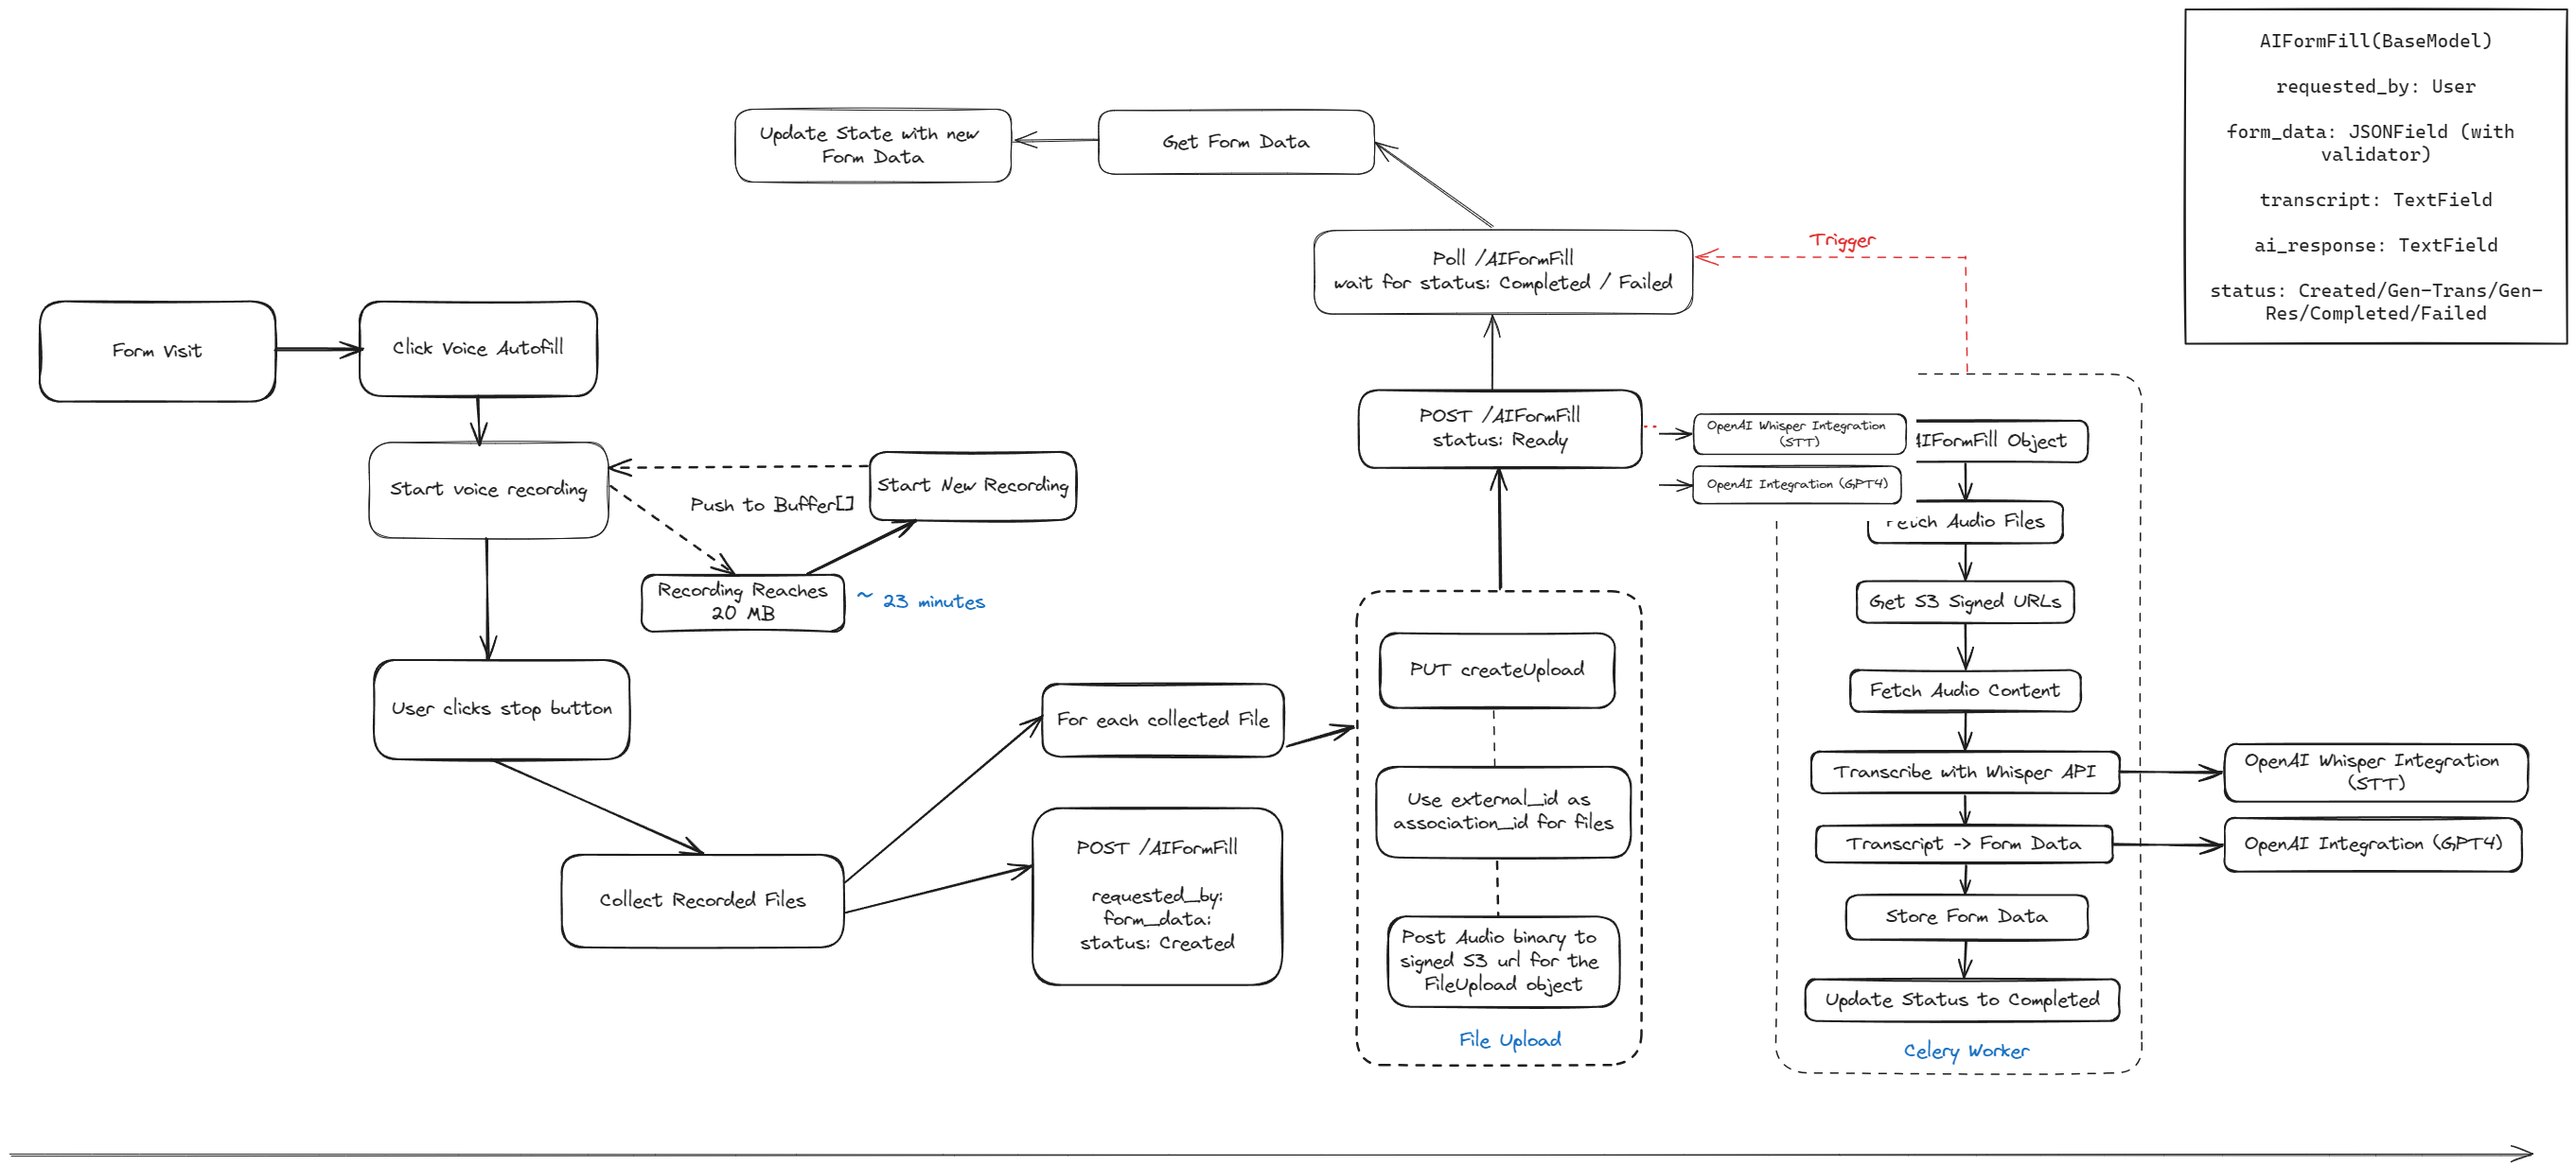
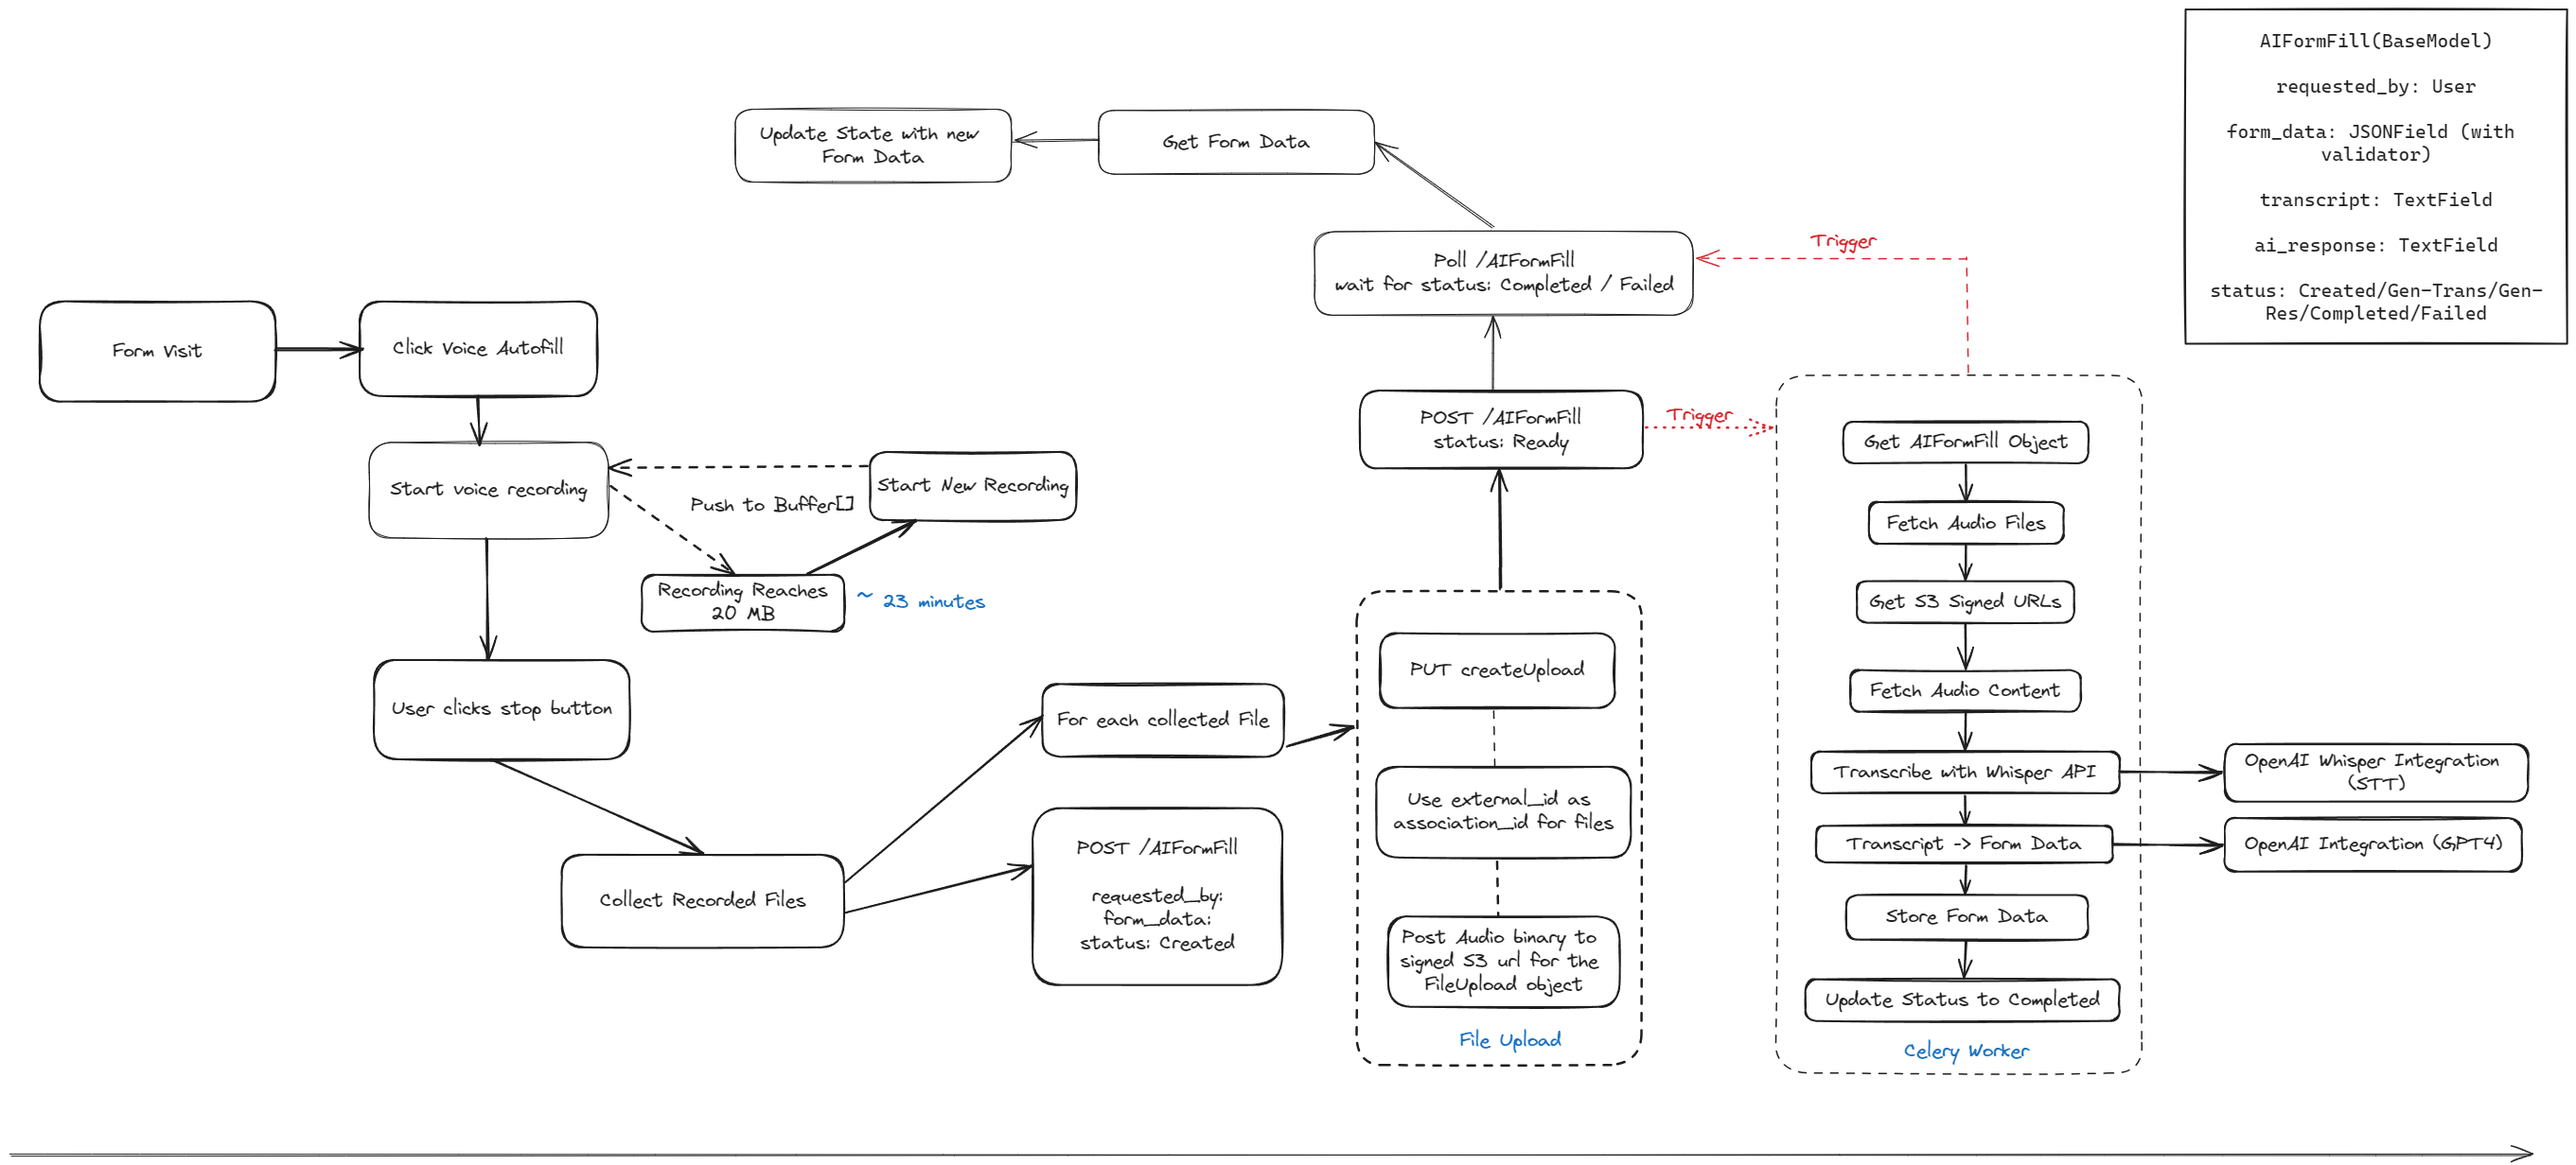
Scribe: Documentation, Azure support, Flowchart, Background Jobs, and Accessibility and Dependencies (#25)

Changed region(s): [[0.5621, 0.3393, 0.8119, 0.4935], [0.5309, 0.2159, 0.687, 0.2776]]

diff --git a/docs/care/apps/scribe/index.md b/docs/care/apps/scribe/index.md
@@ -6,9 +6,17 @@
 |-------------------|----------------------------------------------------------|
 | **Title**         | Care Scribe Feature Overview, Integration, and Operation |
 | **App Namespace** | `care_scribe`                                            |
-| **Last-Modified** | 2024-04-15                                               |
-| **Github-Repo**   | github.com/coronasafe/care_scribe                        |
+| **Last-Modified** | 2024-05-07                                               |
+| **Github-Repo**   | https://github.com/coronasafe/care_scribe                        |
 | **Created**       | 2024-04-15                                               |
+
+## Introduction
+
+The Care Scribe feature represents a substantial advancement in enhancing the accessibility and efficiency of form-filling applications. This introduction section will delve into the core functionalities of Care Scribe, highlighting the significant benefits it offers to users, particularly in terms of streamlining administrative processes and improving user experience. We will also explore the technology behind Care Scribe, how it integrates with existing systems, and its user interface features. Additionally, the scope of this documentation will be outlined, detailing what readers can expect to learn about the feature, including step-by-step guides, best use cases, and troubleshooting tips. This comprehensive overview aims to provide a thorough understanding of Care Scribe and its potential impact in various professional settings.
+
+### Overview of Care Scribe
+
+Care Scribe is an innovative feature that integrates with the Care application to enable voice-assisted form filling. Utilizing advanced speech recognition technology, Care Scribe allows users to fill out forms using voice commands. This seamless interaction aims to enhance the user experience by making form-filling faster, more accurate, and accessible.
 
 # Table of Contents
 
@@ -29,6 +37,7 @@
    3. [API Endpoints](#api-endpoints)
    4. [Background Jobs and Scheduling](#background-jobs-and-scheduling)
    5. [Modules](#modules)
+   6. [Configuring Care Scribe with AI Services](#configuring-care-scribe-with-ai-services)
 5. [Frontend Integration](#frontend-integration)
    1. [Frontend Architecture Overview](#frontend-architecture-overview)
    2. [Components and State Management](#components-and-state-management)
@@ -43,14 +52,6 @@
    1. [References](#references)
    2. [Acknowledgements](#acknowledgements)
 8. [Changelog](#changelog)
-
-## Introduction
-
-The Care Scribe feature represents a significant advancement in the accessibility and efficiency of form-filling applications. This section provides an introduction to the feature, outlining its core functionality, the benefits it offers, and the scope of this documentation.
-
-### Overview of Care Scribe
-
-Care Scribe is an innovative feature that integrates with the Care application to enable voice-assisted form filling. Utilizing advanced speech recognition technology, Care Scribe allows users to fill out forms using voice commands. This seamless interaction aims to enhance the user experience by making form-filling faster, more accurate, and accessible.
 
 ### Purpose and Benefits
 
@@ -272,7 +273,7 @@ On the backend, a task is triggered to process the uploaded audio files. This in
 
 1. **Fetching Audio Files**: Retrieving the audio files from S3.
 2. **Transcription**: Using OpenAI's Whisper to convert speech to text.
-3. **Data Extraction**: Applying GPT-4 to interpret the transcript and extract structured form data.
+3. **Data Extraction**: Applying GPT-4 Turbo to interpret the transcript and extract structured form data.
 4. **Task Completion**: Updating the `Scribe` object's status to 'Completed' and storing the extracted form data.
 
 These steps are handled by a background worker task that ensures the process is asynchronous and does not block other operations.
@@ -331,20 +332,83 @@ To process the audio recordings asynchronously and update the form data with AI-
 
 These tasks are queued up when a `Scribe` object's status is set to 'Ready' and are processed in the background without blocking the main application flow.
 
-#### Example Celery Task
+#### Pseudocode of Celery Task
 
-Here's an example of a Celery task that orchestrates the AI form filling process:
+Here's a simplified pseudocode representation of the Celery task for processing AI form fillings:
 
-```python
-@shared_task
-def process_ai_form_fill(external_id):
-    # Fetch the Scribe object and associated audio files
-    # Generate transcript using AI service
-    # Process transcript with AI to fill form
-    # Update Scribe object with the AI response and set status to 'Completed'
-```
+1. Import necessary libraries and modules.
+2. Define global variable `OpenAIClient`.
+3. Define function `get_openai_client` to initialize `OpenAIClient` if it's not already initialized.
+4. Define two prompts for the AI model.
+5. Define a shared task function `process_ai_form_fill` that takes an `external_id` as input.
+    1. Filter `Scribe` objects based on `external_id` and status.
+    2. Loop over each form in the filtered `Scribe` objects.
+        1. If the form doesn't have any audio files, log a warning and continue to the next form.
+        2. Log the start of processing for the current form.
+        3. Initialize an empty list for audio file URLs and an empty string for transcript.
+        4. Loop over each audio file ID in the form's audio file IDs.
+            1. Get the `ScribeFile` object for the current audio file ID.
+            2. Append the signed URL of the audio file to the list of audio file URLs.
+            3. Log the audio file URL.
+        5. Try the following steps, and if any exception occurs, log the error and set the form status to 'FAILED'.
+            1. Log the start of transcript generation for the current form and set the form status to 'GENERATING_TRANSCRIPT'.
+            2. If the form doesn't have a transcript, generate a transcript using the OpenAI client and save it to the form.
+            3. Log the start of AI response generation for the current form and set the form status to 'GENERATING_AI_RESPONSE'.
+            4. Process the transcript with the OpenAI client to generate an AI response.
+            5. Log the AI response.
+            6. Save the AI response to the form and set the form status to 'COMPLETED'.
 
 The task is designed to handle various steps in the AI form filling process, including error handling to update the `Scribe` status to 'Failed' if any step encounters an issue.
+
+## Configuring Care Scribe with AI Services
+
+Care Scribe supports integration with both OpenAI and Azure AI services. This section provides detailed instructions on configuring the service with these providers, the differences between the configurations, and the environment variables that need to be set.
+
+### Differences Between OpenAI and Azure AI Integration
+
+- **API Provider**: The service can be configured to use either `OpenAI` or `Azure` as the AI backend.
+- **API Endpoint**: Azure requires an additional endpoint setting (`AZURE_ENDPOINT`), whereas OpenAI uses a default endpoint set within the library.
+- **API Version**: Azure integration allows specifying an API version (`AZURE_API_VERSION`), which is not required for OpenAI.
+- **Model Naming**: For Azure, the model or custom deployment name is used, while OpenAI directly uses the model name provided by OpenAI.
+
+### Required Settings Variables
+
+The following environment variables need to be configured depending on your choice of AI service provider:
+
+- `API_PROVIDER`: Set to either `"openai"` or `"azure"` to choose the AI service provider.
+- `TRANSCRIBE_SERVICE_PROVIDER_API_KEY`: The API key for accessing transcription services from the chosen provider.
+- `AZURE_API_VERSION` (only for Azure): Specifies the version of the Azure API to use.
+- `AZURE_ENDPOINT` (only for Azure): Specifies the endpoint URL for Azure services.
+- `AUDIO_MODEL_NAME`: The model name for audio transcription services (OpenAI) or the custom deployment name for Azure.
+- `CHAT_MODEL_NAME`: The model name for chat services (OpenAI) or the custom deployment name for Azure.
+
+### Configuration Steps
+
+1. **Set Environment Variables**: Based on the chosen provider, set the appropriate environment variables in `plugin_settings`.
+
+   For OpenAI:
+   ```python
+   plugin_settings.API_PROVIDER = 'openai'
+   plugin_settings.TRANSCRIBE_SERVICE_PROVIDER_API_KEY = '<your_openai_api_key>'
+   plugin_settings.AUDIO_MODEL_NAME = '<openai_audio_model_name>'
+   plugin_settings.CHAT_MODEL_NAME = '<openai_chat_model_name>'
+   ```
+
+   For Azure:
+   ```python
+   plugin_settings.API_PROVIDER = 'azure'
+   plugin_settings.TRANSCRIBE_SERVICE_PROVIDER_API_KEY = '<your_azure_api_key>'
+   plugin_settings.AZURE_API_VERSION = '<api_version>'
+   plugin_settings.AZURE_ENDPOINT = '<azure_endpoint>'
+   plugin_settings.AUDIO_MODEL_NAME = '<azure_custom_deployment_name_for_audio>'
+   plugin_settings.CHAT_MODEL_NAME = '<azure_custom_deployment_name_for_chat>'
+   ```
+
+2. **Initialize AI Client**: The AI client initialization is handled within the `get_openai_client` function, which now dynamically selects the AI service based on the `API_PROVIDER` setting.
+
+3. **Usage in Tasks**: Use the configured AI client in your tasks to perform AI-related operations like audio transcription and chat completions, ensuring you set the model or deployment names correctly.
+
+By following these configuration steps and setting the appropriate variables, Care Scribe will be able to interact with the chosen AI service provider efficiently and securely.
 
 ## Frontend Integration
 
@@ -354,7 +418,7 @@ Integrating the Care Scribe feature into the frontend involves updating the Reac
 
 ### Frontend Architecture Overview
 
-The frontend architecture is built on React, utilizing functional components and hooks for state management. The integration of Care Scribe adds new components related to voice recording and form handling, which interact with the existing Redux store and backend API.
+The frontend architecture is built on React, utilizing functional components and hooks for state management. The integration of Care Scribe adds new components related to voice recording and form handling, which interact with the backend API.
 
 ### Components and State Management
 
@@ -364,7 +428,7 @@ New components and hooks have been introduced to manage the state of voice recor
 * `formDetails.ts`: Contains the metadata and schema of form fields that can be auto-filled using the Scribe feature.
 * `useSegmentedRecorder.ts`: A custom hook that manages voice recording, including starting, stopping, and segmenting the audio as it's recorded.
 
-The state of the Scribe component is managed using local state hooks like `useState` and external state management using Redux for asynchronous actions and API interactions.
+The state of the Scribe component is managed using local state hooks like `useState` and external state management with API interactions.
 
 ### Event Handlers
 
@@ -381,22 +445,15 @@ UI updates include:
 * Visual feedback during recording, processing, and transcription phases.
 * Modals and progress indicators to enhance user feedback during the operation of the Scribe feature.
 
-### Accessibility Features
-
-The Scribe component is designed with accessibility in mind:
-
-* Keyboard navigable controls for starting and stopping recordings.
-* ARIA labels and roles to ensure screen readers correctly interpret the purpose of the Scribe components and provide appropriate feedback to users with visual impairments.
-
 #### Code Snippets
 
 The following snippets from the patch files demonstrate key aspects of the Scribe feature integration:
 
 ```jsx
 // src/Components/Scribe/Scribe.tsx
-// Example of the Scribe component initialization
+// Example of the Scribe component initialization for the daily round form in CARE
 <Scribe
-  fields={DAILY_ROUND_FORM_SCRIBE_DATA}
+  fields={DAILY_ROUND_FORM_SCRIBE_DATA} // Form field metadata
   onFormUpdate={(fields) => {
     // Update form state with new fields
   }}
@@ -406,11 +463,13 @@ The following snippets from the patch files demonstrate key aspects of the Scrib
 // Metadata for daily round form fields utilized by Scribe
 export const DAILY_ROUND_FORM_SCRIBE_DATA: Field[] = [
   {
-    friendlyName: "Temperature",
-    id: "temperature",
-    type: "number",
-    example: "98.6",
-    // Other field attributes...
+    friendlyName: "Temperature", // Field name
+    id: "temperature", // Field ID
+    type: "number", // Field type
+    example: "98.6", // Example value for the field
+    default: "", // Default value for the field
+    description: "Enter the patient's temperature", // Field description
+    options: [], // Optional: for dropdowns, checkboxes, etc.
   },
   // Additional fields...
 ];
@@ -447,12 +506,6 @@ Here's  a  list  of  potential  problems  users  might  encounter  while  using 
 -   Check  the  performance  of  the  AI  service  and  ensure  it  is  responding  within  acceptable  timeframes.
 -   Consider  optimizing  the  AI  prompts  and  data  structures  to  improve  the  response  time.
 
-**Issue:**  The  Scribe  feature  is  not  accessible  to  users  with  disabilities.
-**Solution:**
--   Ensure  that  all  UI  elements,  including  buttons  and  modals,  are  keyboard  navigable.
--   Implement  appropriate  ARIA  labels  and  roles  for  all  components  to  enable  screen  reader  compatibility.
--   Test  the  accessibility  features  with  assistive  technologies  to  identify  and  address  any  issues.
-
 #### Logging and Error Tracking
 
 Care  Scribe  utilizes  logging  mechanisms  to  record  events  and  errors  during  the  operation  of  the  feature:
@@ -462,7 +515,7 @@ Care  Scribe  utilizes  logging  mechanisms  to  record  events  and  errors  du
 -   **Backend  Logging:**  The  Django  application  logs  events  and  errors  to  the  server  logs  using  the  Python  logging  module.
     
 
-Additionally,  error  tracking  tools  can  be  integrated  to  monitor  and  report  errors  in  real-time,  providing  insights  into  potential  issues  and  areas  for  improvement.
+Sentry.io is utilized for error tracking and capturing errors from both the frontend and the backend loggers, offering real-time monitoring and reporting of errors. This provides valuable insights into potential issues and areas that require improvement.
 
 ### Appendix
 
@@ -516,9 +569,9 @@ These snippets provide a glimpse into the inner workings of the Care Scribe feat
 
 - OpenAI Whisper: https://openai.com/blog/whisper/
 - GPT-4: https://openai.com/research/gpt-4
+- GPT-4 Turbo: https://platform.openai.com/docs/models/gpt-4-turbo-and-gpt-4
 - Django: https://www.djangoproject.com/
 - React: https://reactjs.org/
-- Redux: https://redux.js.org/
 - Celery: https://docs.celeryproject.org/en/stable/
 
 #### Acknowledgements
@@ -530,3 +583,4 @@ These snippets provide a glimpse into the inner workings of the Care Scribe feat
 ### Changelog
 
 - **2024-04-15**: Initial draft of the Care Scribe Technical Documentation.
+- **2024-05-07**: Fixes to the flowchart, Add details on Celery task, and revise Accessibility and Dependencies.
